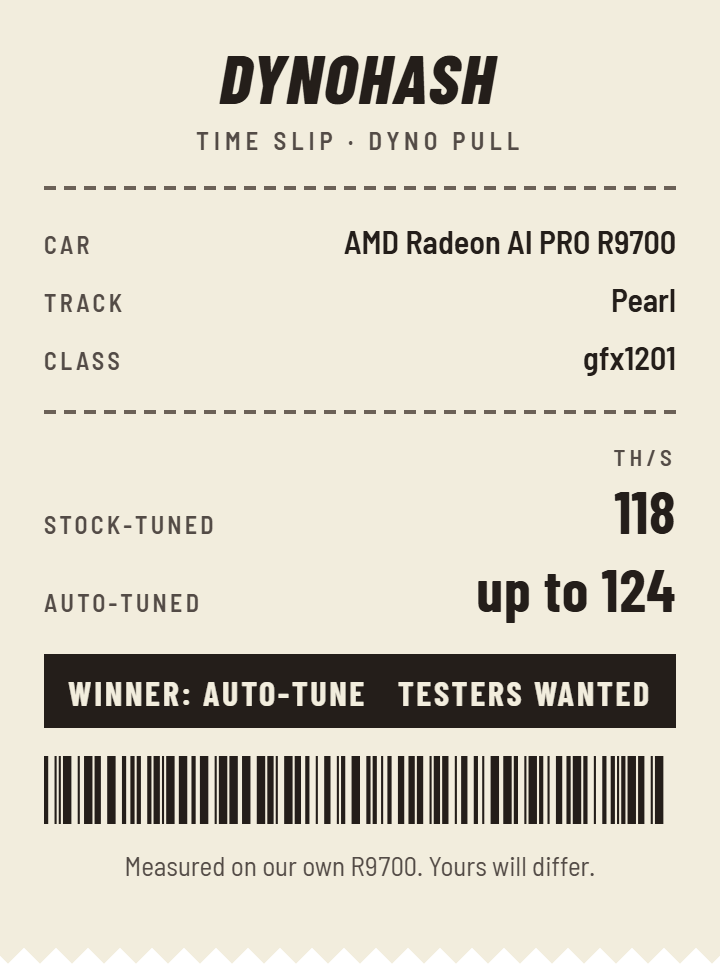
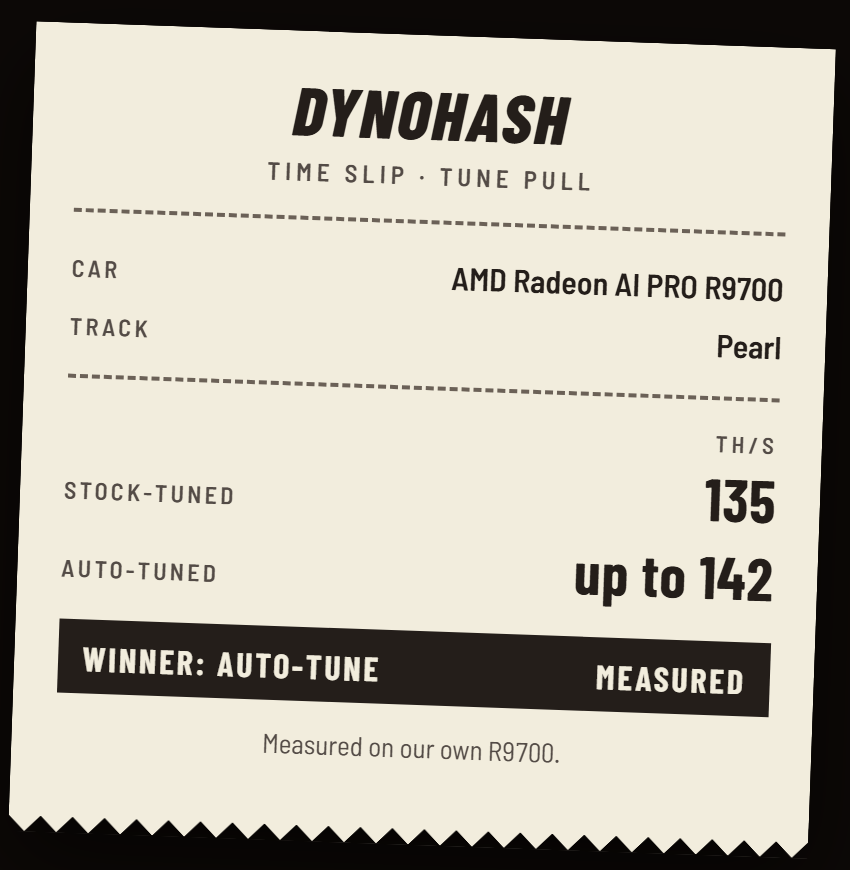
README: v0.1.1 numbers (R9700 135 stock, up to 142 tuned; RTX 2080 about 69), tested cards and pools, coin rate and problem reports

diff --git a/README.md b/README.md
@@ -13,9 +13,9 @@ DynoHash mines Pearl (PRL) on your graphics card, then tunes the card for more s
 - **The Strip.** Real speeds from real rigs, card by card. [See The Strip](https://dynohash.com/the-strip/)
 - **Plug and play.** Install it. Choose where to get paid. Press **Start mining**.
 
-On our test rig it out-mined every other Pearl miner we tried, then auto-tune added more.
+On our own R9700 it went from 106 TH/s at our first build to 142 TH/s tuned today. On an RTX 2080, from about 41 to about 69 TH/s.
 
-<p align="center"><img src=".github/assets/time-slip.png" width="340" alt="Time slip for the AMD Radeon AI PRO R9700 on Pearl: 118 TH/s stock-tuned, up to 124 TH/s auto-tuned. Measured on our own R9700."></p>
+<p align="center"><img src=".github/assets/time-slip.png" width="340" alt="Time slip for the AMD Radeon AI PRO R9700 on Pearl: 135 TH/s stock-tuned, up to 142 TH/s auto-tuned. Measured on our own R9700."></p>
 
 ## Download
 
@@ -102,6 +102,8 @@ Make a flight sheet. Pick **Custom** as the miner, then **Setup Miner Config**:
 - **Wallet and worker template:** `%WAL%.%WORKER_NAME%`
 - **Pool URL:** `stratum+ssl://prl-us.kryptex.network:8048`
 - **Pass:** only if your pool wants one.
+
+Tested pools: Kryptex, HeroMiners and K1Pool. Addresses and copy-ready settings: [dynohash.com/download/#pools](https://dynohash.com/download/#pools).
 - **Extra config arguments:** optional, see [below](#extra-arguments-for-rigs).
 
 Your wallet goes into a private file on the rig, never onto the command line.
@@ -165,11 +167,13 @@ A check failed? Delete the file. Tell us: security@dynohash.com
 - **AMD Radeon AI PRO R9700** (gfx1201)
 - **AMD Radeon RX 9000 series** (RDNA 4)
 - **AMD Radeon RX 7000 series** (RDNA 3), including built-in Radeon 780M graphics
-- **AMD Radeon RX 6000 series** (RDNA 2)
-- **NVIDIA GeForce RTX 50, 40, 30 and 20 series**
+- **NVIDIA GeForce RTX 20 series** (tested on an RTX 2080)
 - **NVIDIA GTX 10 series.** Works, but too slow to pay on Pearl.
 
-Speed on our own R9700: 118 TH/s stock-tuned, up to 124 with auto-tune.
+More cards are being tested. Got another card? Try the [beta](https://dynohash.com/download/) and post your time slip.
+
+Speed on our own R9700: 135 TH/s stock, up to 142 TH/s tuned at 300 W (DynoHash 0.1.2). Release 0.1.1 on Windows 11: 130 TH/s stock.
+On our RTX 2080: about 69 TH/s at about 240 W.
 
 Got a card that does not start, or a HiveOS or mmpOS rig? DynoHash checks every card the first time it runs
 (see [card checks](#speed-stats-and-card-checks)). You can also [tell us how it runs](https://github.com/dynohash/dynohash/issues/new?template=card_test.yml).
@@ -221,7 +225,14 @@ it runs its own correctness check (the card's result against a CPU result) and a
 
 Never sent: wallet, pool, worker name, IP address, computer name or paths. At most 20 checks per install per day.
 Kept 90 days. It never slows mining. The app's **View what's sent** button shows the last check.
-Off with the same switch: `--stats off`. The exact format is
+Off with the same switch: `--stats off`.
+
+**Coin rate.** Whether speed stats are on or off, the app reads the current coin rate from api.dynohash.com about once an hour
+and before each dyno pull, to show what your rig earns a day. That request sends nothing about you (no install ID, wallet, card
+or settings); like any web request it shows our server your IP address, and it names the DynoHash version.
+
+**Problem reports.** "Report a problem" builds a report on your PC, cleans out wallets, logins, names and addresses, and shows it
+to you first. Only you send it. The exact format is
 [the published schema](https://dynohash.com/stats-schema/cardcheck-v1.json).
 
 <details>
